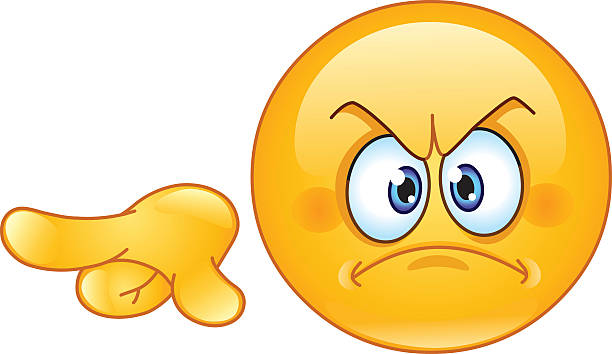
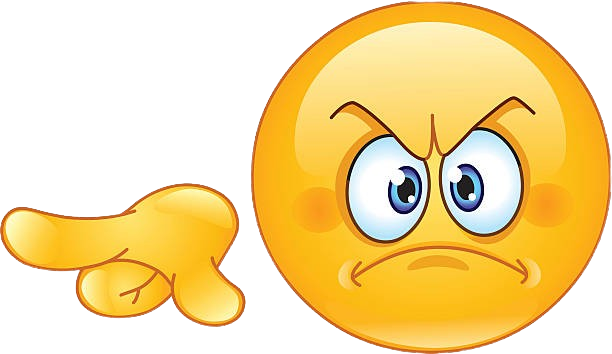
Polished/Final Version

diff --git a/SecondPage.html b/SecondPage.html
@@ -1,6 +1,10 @@
+<!DOCTYPE html>
 <html lang="en">
     <head>
+        <meta charset="UTF-8">
+        <meta name="viewport" content="width=device-width, initial-scale=1.0">
         <title>Next Page 😁👍</title>
+        <!-- <link rel="stylesheet" herf="styles.css"> -->
         <style>
             *{
                 text-align: center;
@@ -15,11 +19,12 @@
             body{
                 padding: auto, 2rem;
                 color:rgb(48, 48, 48);
+                background-color: rgb(226, 255, 253);
             }
 
             mark{
                 color:rgb(219, 47, 235);
-                font-size:70;
+                font-size: 4.3rem;
             }
 
             img{

diff --git a/index.html b/index.html
@@ -21,6 +21,7 @@
             body{
                 padding: auto, 2rem;
                 color:rgb(48, 48, 48);
+                background-color: rgb(226, 255, 253);
             }
 
             em{
@@ -42,11 +43,10 @@
             <em>lemme cook trust</em>
         </div>
             
-        <a href="SecondPage.html">
-            <img src="tuff_emoji.png" width="250px" alt="This Is A Tuff Emoji">
-        </a>
-
         <div>
+            <a href="SecondPage.html">
+                <img src="tuff_emoji.png" alt="This Is A Tuff Emoji">
+            </a>
             <h3>
                 Click Me! ⬆
             </h3>

diff --git a/styles.css b/styles.css
@@ -1,5 +1,6 @@
 *{
     text-align: center;
+    cursor: default;
 }
 
 h1{
@@ -8,12 +9,24 @@ h1{
 }
 
 body{
-    padding: auto, 1rem;
-    color:aliceblue;
+    padding: auto, 2rem;
+    color:rgb(48, 48, 48);
+    background-color: rgb(226, 255, 253);
 }
 
-#par{
+em{
     color: rgb(14, 154, 197);
     font-size: 2rem;
+}
+
+mark{
+    color:rgb(219, 47, 235);
+    font-size:70;
+}
+
+img{
+    padding-top: 1.5rem;
+    cursor: pointer;
+    width: 16rem;
 }
 
